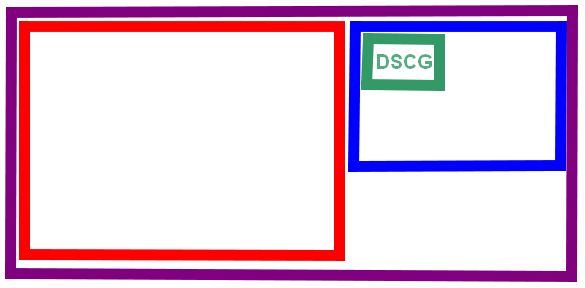
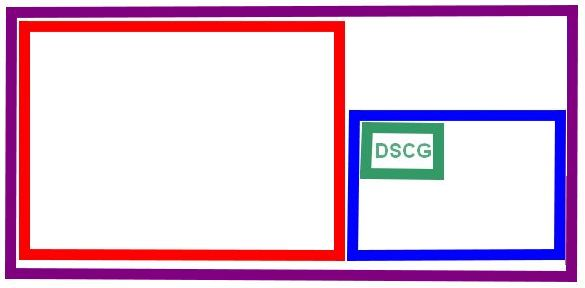
(screen export: added windows settings details)

Changed region(s): [[0.5846, 0.0625, 0.9846, 0.9062]]

diff --git a/src/dcs/screen_export.md b/src/dcs/screen_export.md
@@ -166,6 +166,10 @@ at `2715x1527`, combined that makes a virtual monitor resolution of `6555x2160`.
 
 ![Multi-Monitor Setup](../img/screen_export_multi_monitor_resolutions.jpg)
 
+The exact arrangement is defined in the Windows Display Settings:
+
+![Windows Settings](../img/screen_export_windows_monitor.jpg)
+
 In the setup-file, one has to now define several viewports for DCS. This tells
 the game where on the virtual monitor to render which scene. The format looks as
 follows:
